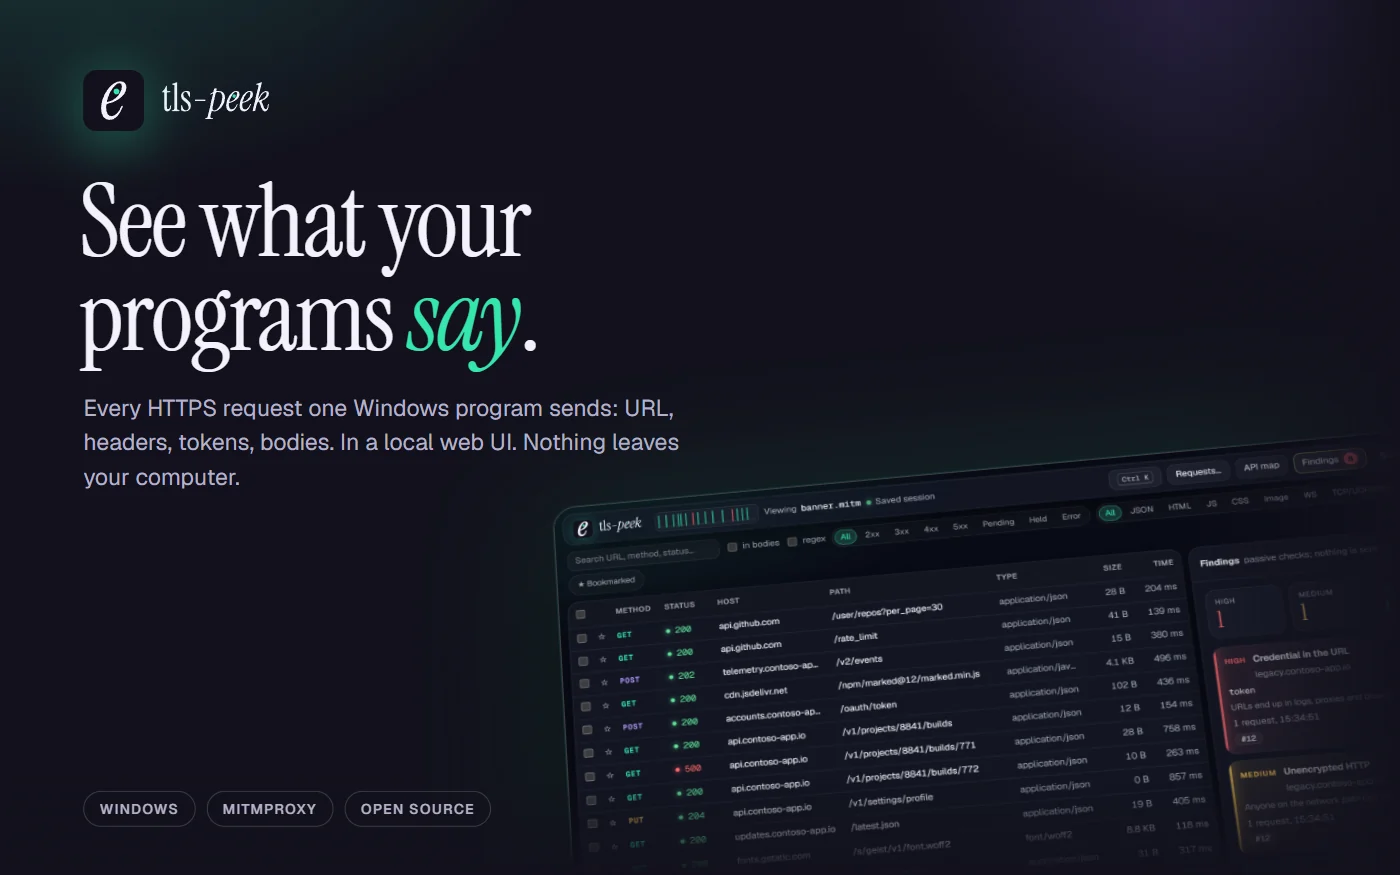
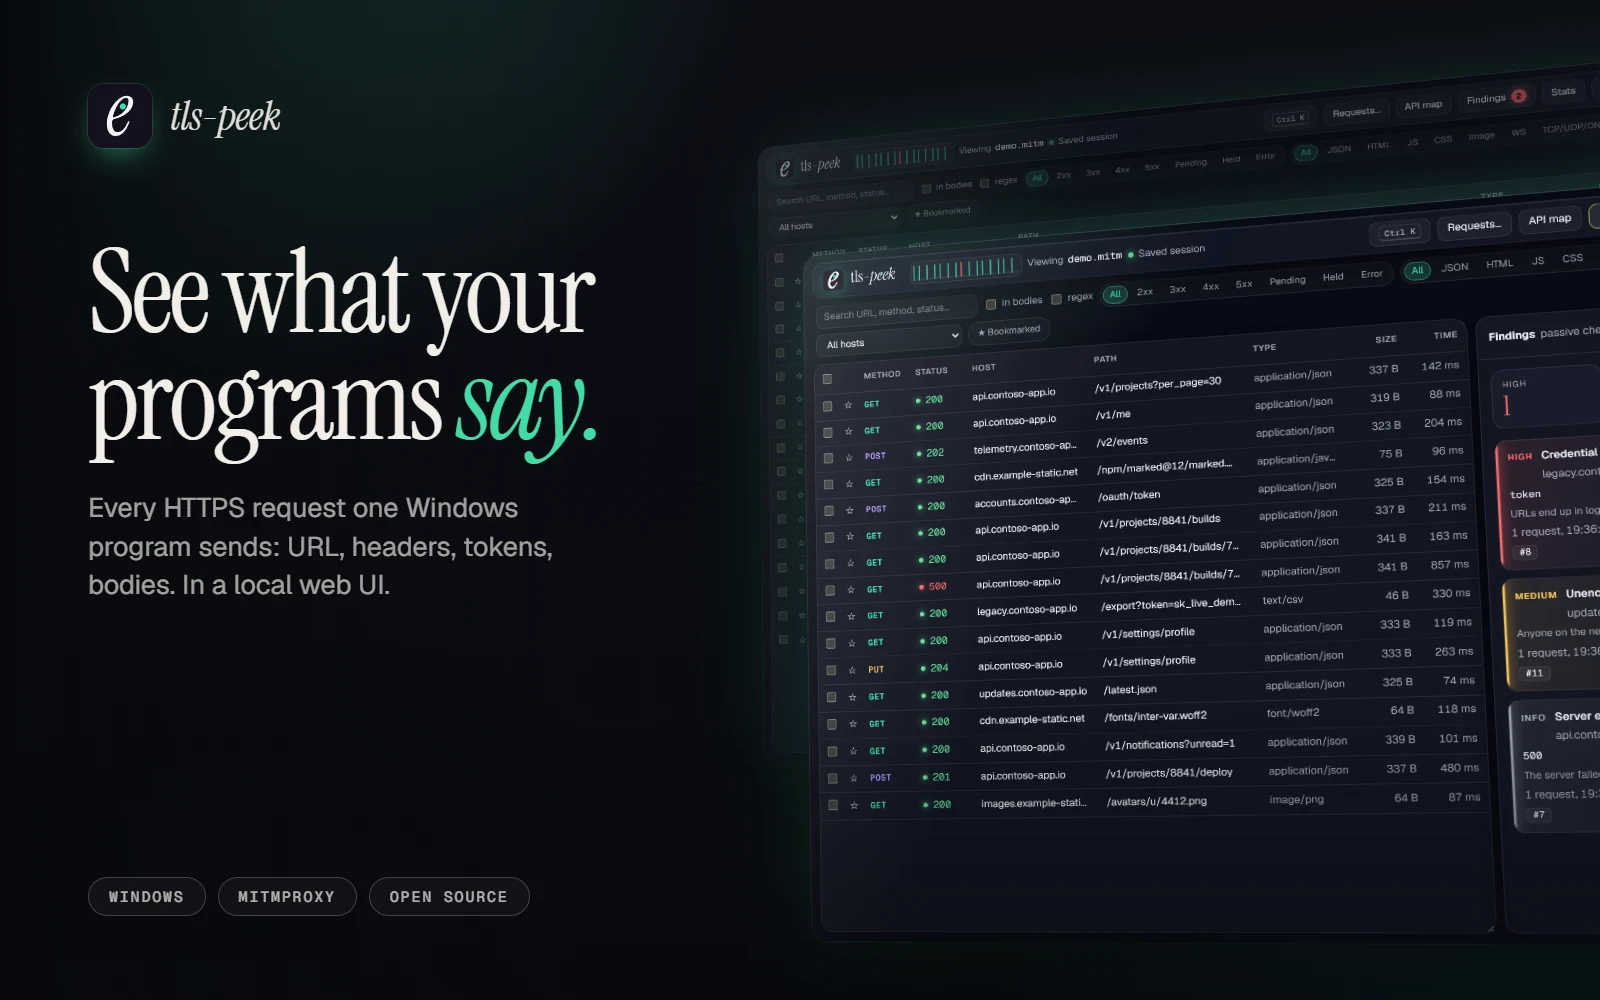
New project cards from fresh captures of each app
Each of the four featured projects now has a 16:10 card built from screenshots taken by running the real UI: the Raflıyo demo, the Tessera windows, the Volume Lock extension and tls-peek on made-up traffic. They share one layout of serif headline, brand mark and a perspective view of the app.

diff --git a/index.html b/index.html
@@ -87,7 +87,7 @@
     <article class="film film--left" data-i="01">
       <div class="film__rail"><span class="film__no">01</span><span class="film__facts">Solo · commercial product · live</span></div>
       <div class="film__frame media">
-          <img src="posts/img/rafliyo-sale.webp" width="1300" height="877" alt="Raflıyo sales screen: a basket of electrical products, a customer with a trade discount, the total and buttons for cash, card and credit." loading="lazy">
+          <img src="posts/img/rafliyo-card.webp" width="1600" height="1000" alt="Raflıyo: the headline The whole shop, one screen, and the dark sales screen with a basket of electrical products, with the reports screen behind it." loading="lazy">
         </div>
       <div class="film__text">
         <p class="film__kind">Shop Management Software</p>
@@ -100,8 +100,8 @@
 
     <article class="film film--right" data-i="02">
       <div class="film__rail"><span class="film__no">02</span><span class="film__facts">Solo · open source · in use</span></div>
-      <div class="film__frame media media--card">
-          <img src="posts/img/tessera-card.webp" width="440" height="280" alt="Tessera logo, a Roman arch, with the tagline Right-click, pick a format, done, and pills reading free, modern UI and open source." loading="lazy">
+      <div class="film__frame media">
+          <img src="posts/img/tessera-card.webp" width="1600" height="1000" alt="Tessera: the headline Right-click, pick a format, done, the chooser window with format buttons and presets, and the Formats settings behind it." loading="lazy">
         </div>
       <div class="film__text">
         <p class="film__kind">File Converter for Windows</p>
@@ -114,8 +114,8 @@
 
     <article class="film film--left" data-i="03">
       <div class="film__rail"><span class="film__no">03</span><span class="film__facts">Solo · personal project</span></div>
-      <div class="film__frame media media--card">
-          <img src="posts/img/volume-lock-card.webp" width="440" height="280" alt="Volume Lock logo, a V dial, with the tagline Your volume, per site." loading="lazy">
+      <div class="film__frame media">
+          <img src="posts/img/volume-lock-card.webp" width="1600" height="1000" alt="Volume Lock: the headline Your volume, per site, the popup with its volume knob at 70% and the saved sites list behind it." loading="lazy">
         </div>
       <div class="film__text">
         <p class="film__kind">Chrome Extension</p>
@@ -129,7 +129,7 @@
     <article class="film film--right" data-i="04">
       <div class="film__rail"><span class="film__no">04</span><span class="film__facts">Solo · open source · released</span></div>
       <div class="film__frame media">
-          <img src="posts/img/tls-peek-card.webp" width="1400" height="875" alt="tls-peek: the logo, an italic e with a pupil, the headline See what your programs say, and a tilted screenshot of the capture UI listing HTTPS requests and findings." loading="lazy">
+          <img src="posts/img/tls-peek-card.webp" width="1600" height="1000" alt="tls-peek: the headline See what your programs say, a list of HTTPS requests and a findings panel with a credential in the URL." loading="lazy">
         </div>
       <div class="film__text">
         <p class="film__kind">HTTPS Inspector for Windows</p>

diff --git a/src/index.html b/src/index.html
@@ -28,7 +28,7 @@
     <article class="film film--left" data-i="01">
       <div class="film__rail"><span class="film__no">01</span><span class="film__facts">Solo · commercial product · live</span></div>
       <div class="film__frame media">
-          <img src="posts/img/rafliyo-sale.webp" width="1300" height="877" alt="Raflıyo sales screen: a basket of electrical products, a customer with a trade discount, the total and buttons for cash, card and credit." loading="lazy">
+          <img src="posts/img/rafliyo-card.webp" width="1600" height="1000" alt="Raflıyo: the headline The whole shop, one screen, and the dark sales screen with a basket of electrical products, with the reports screen behind it." loading="lazy">
         </div>
       <div class="film__text">
         <p class="film__kind">Shop Management Software</p>
@@ -41,8 +41,8 @@
 
     <article class="film film--right" data-i="02">
       <div class="film__rail"><span class="film__no">02</span><span class="film__facts">Solo · open source · in use</span></div>
-      <div class="film__frame media media--card">
-          <img src="posts/img/tessera-card.webp" width="440" height="280" alt="Tessera logo, a Roman arch, with the tagline Right-click, pick a format, done, and pills reading free, modern UI and open source." loading="lazy">
+      <div class="film__frame media">
+          <img src="posts/img/tessera-card.webp" width="1600" height="1000" alt="Tessera: the headline Right-click, pick a format, done, the chooser window with format buttons and presets, and the Formats settings behind it." loading="lazy">
         </div>
       <div class="film__text">
         <p class="film__kind">File Converter for Windows</p>
@@ -55,8 +55,8 @@
 
     <article class="film film--left" data-i="03">
       <div class="film__rail"><span class="film__no">03</span><span class="film__facts">Solo · personal project</span></div>
-      <div class="film__frame media media--card">
-          <img src="posts/img/volume-lock-card.webp" width="440" height="280" alt="Volume Lock logo, a V dial, with the tagline Your volume, per site." loading="lazy">
+      <div class="film__frame media">
+          <img src="posts/img/volume-lock-card.webp" width="1600" height="1000" alt="Volume Lock: the headline Your volume, per site, the popup with its volume knob at 70% and the saved sites list behind it." loading="lazy">
         </div>
       <div class="film__text">
         <p class="film__kind">Chrome Extension</p>
@@ -70,7 +70,7 @@
     <article class="film film--right" data-i="04">
       <div class="film__rail"><span class="film__no">04</span><span class="film__facts">Solo · open source · released</span></div>
       <div class="film__frame media">
-          <img src="posts/img/tls-peek-card.webp" width="1400" height="875" alt="tls-peek: the logo, an italic e with a pupil, the headline See what your programs say, and a tilted screenshot of the capture UI listing HTTPS requests and findings." loading="lazy">
+          <img src="posts/img/tls-peek-card.webp" width="1600" height="1000" alt="tls-peek: the headline See what your programs say, a list of HTTPS requests and a findings panel with a credential in the URL." loading="lazy">
         </div>
       <div class="film__text">
         <p class="film__kind">HTTPS Inspector for Windows</p>

diff --git a/assets/css/home.css b/assets/css/home.css
@@ -100,7 +100,6 @@ main > section { background: transparent; }
 .media::after { content: ''; position: absolute; inset: 0; pointer-events: none; background: linear-gradient(180deg, oklch(0.76 0.145 62 / 0.08), transparent 35%, oklch(0.06 0.01 255 / 0.35)); }
 .media img { position: absolute; inset: 0; width: 100%; height: 100%; object-fit: cover; transition: transform 1.2s var(--ease); }
 .media:hover img { transform: scale(1.04); }
-.media--card img { inset: 0; height: 100%; padding: clamp(24px, 5vw, 80px); object-fit: contain; }
 
 /* ---------- skills: one flowing line ---------- */
 
